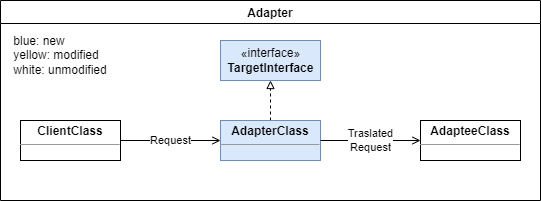
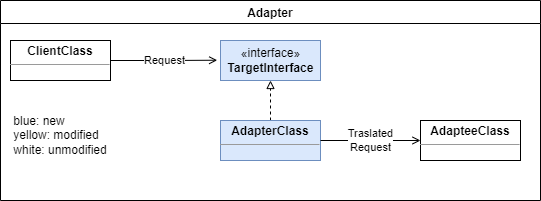
Adapter: Implementation finished

Changed region(s): [[0.0, 0.1791, 0.414, 0.4179], [0.0, 0.5672, 0.414, 0.806]]

diff --git a/StructuralPatterns/AdapterPattern/Adapter.cs b/StructuralPatterns/AdapterPattern/Adapter.cs
@@ -6,7 +6,39 @@ using System.Threading.Tasks;
 
 namespace AdapterPattern
 {
-    internal class Adapter
+    internal class Adapter : TargetInterface
     {
+        private Adaptee adapteeInstance;
+
+        public Adapter(Adaptee adapteeInstance)
+        {
+            this.adapteeInstance = adapteeInstance;
+        }
+
+        /// <summary>
+        /// Client's method is ADAPTED to use ADAPTEE method
+        /// </summary>
+        /// <param name="clientVariable"></param>
+        public void clientMethod(int clientVariable)
+        {
+            adapteeInstance.adapteeMethod(ClientToAdapteeVariableConversor(clientVariable));            
+        }
+
+        /// <summary>
+        /// This CONVERTS the CLIENT interface to something that the ADAPTEE can understand.
+        /// </summary>
+        /// <param name="clientVariable"></param>
+        /// <returns></returns>
+        private bool ClientToAdapteeVariableConversor(int clientVariable) 
+        {
+            if (clientVariable != 0)
+            {
+                return true;
+            }
+            else {
+                return false;
+            }
+        
+        }
     }
 }

diff --git a/StructuralPatterns/AdapterPattern/Adaptee.cs b/StructuralPatterns/AdapterPattern/Adaptee.cs
@@ -4,9 +4,26 @@ using System.Linq;
 using System.Text;
 using System.Threading.Tasks;
 
+
 namespace AdapterPattern
 {
+    /// <summary>
+    /// This is the class that will be adapted. 
+    /// </summary>
     internal class Adaptee
     {
+        /// <summary>
+        /// This is the method with parameters incompatible with Client.
+        /// This method shall be modified to include:
+        /// - your parameters
+        /// - your return type
+        /// - your implementation
+        /// </summary>
+        /// <param name="adapteeVariable"></param>
+        public void adapteeMethod(bool adapteeVariable) { 
+            
+            Console.WriteLine(adapteeVariable);
+        }
+        
     }
 }

diff --git a/StructuralPatterns/AdapterPattern/Client.cs b/StructuralPatterns/AdapterPattern/Client.cs
@@ -8,5 +8,16 @@ namespace AdapterPattern
 {
     internal class Client
     {
+        TargetInterface adapterInstance;
+
+        public Client(Adapter adapterInstance)
+        {
+            this.adapterInstance = adapterInstance;
+        }
+
+        public void ClientFunctionality(int clientVariable) 
+        {
+            adapterInstance.clientMethod(clientVariable);
+        }
     }
 }

diff --git a/StructuralPatterns/AdapterPattern/Program.cs b/StructuralPatterns/AdapterPattern/Program.cs
@@ -1,3 +1,9 @@
 // See https://aka.ms/new-console-template for more information
 
-Console.WriteLine("Hello, World!");
+using AdapterPattern;
+
+Adaptee adapteeInstance = new Adaptee();
+Adapter adapterInstance = new Adapter(adapteeInstance);
+Client clientInstance = new Client(adapterInstance);
+
+clientInstance.ClientFunctionality(0);

diff --git a/StructuralPatterns/AdapterPattern/TargetInterface.cs b/StructuralPatterns/AdapterPattern/TargetInterface.cs
@@ -8,5 +8,11 @@ namespace AdapterPattern
 {
     internal interface TargetInterface
     {
+        /// <summary>
+        /// Client's method that need to be ADAPTED
+        /// </summary>
+        /// <returns></returns>
+        public void clientMethod(int clientVariable);
+
     }
 }
